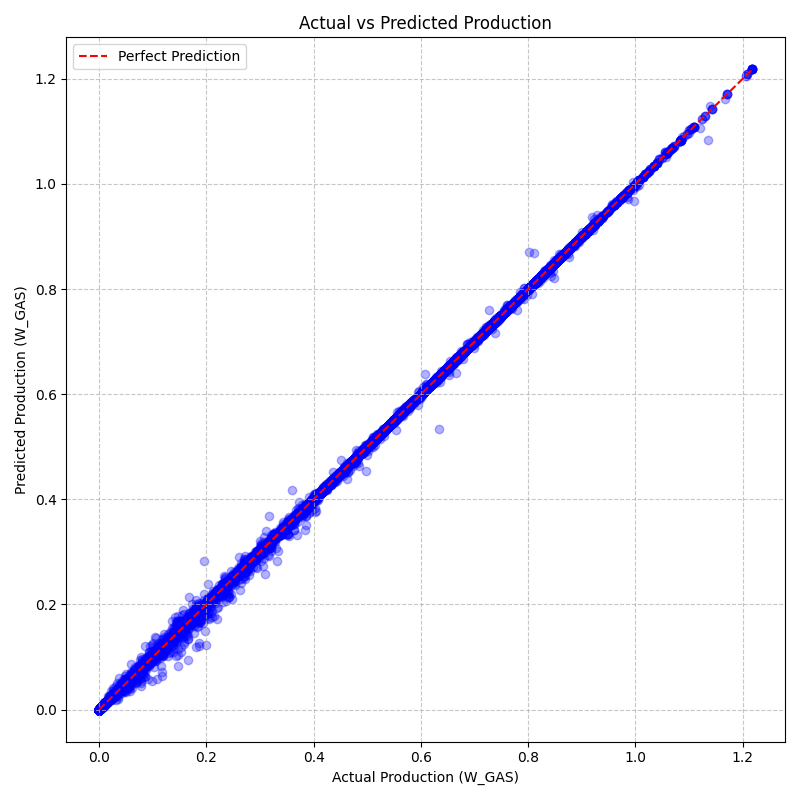
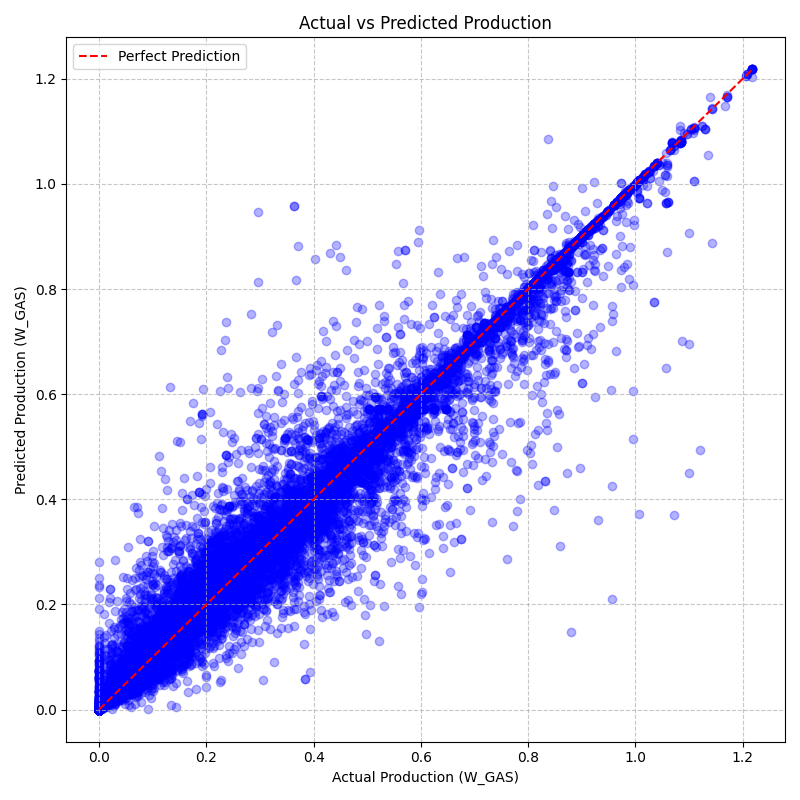
Refactor code structure for improved readability and maintainability

diff --git a/src/utils.py b/src/utils.py
@@ -44,3 +44,47 @@ def load_config(config_path="config/config.yaml"):
     except Exception as e:
         logging.error(f"Error loading config file: {e}")
         raise
+
+def check_feature_leakage(df):
+    # 1. Initialization
+    config = load_config()
+    safe_list = []
+    results = {}
+    
+    target = config['pipeline']['target_col']
+    features = config['pipeline']['feature_cols']
+    
+    print(f"\n{'FEATURE':<15} | {'CORRELATION WITH ' + target:<25} | {'STATUS'}")
+    print("-" * 75)
+    
+    # 2. Logic Loop (In-Memory Processing)
+    for col in features:
+        if col in df.columns:
+            corr = df[col].corr(df[target])
+            results[col] = corr
+            
+            if abs(corr) > 0.95:
+                status = "❌ HIGH LEAKAGE RISK"
+            elif abs(corr) > 0.80:
+                status = "⚠ STRONG DRIVER"
+                #safe_list.append(col) Optional: decide if strong drivers are 'safe'
+            else:
+                status = "✅ OK"
+                safe_list.append(col)
+                
+            print(f"{col:<15} | {corr:>25.4f} | {status}")
+        else:
+            print(f"{col:<15} | {'COLUMN MISSING':>25} | ⚠")
+
+    # 3. Persistence (Single Disk Write - Outside Loop)
+    config['pipeline']['safe_features'] = safe_list
+    
+    try:
+        # Resolve path clearly - assuming 'config/config.yaml' relative to project root
+        with open('config/config.yaml', 'w') as file:
+            yaml.dump(config, file, default_flow_style=False)
+        print(f"\n🚀 Success: config.yaml updated with {len(safe_list)} safe features.")
+    except Exception as e:
+        logging.error(f"Failed to persist safe_features to config: {e}")
+            
+    return results

diff --git a/main.py b/main.py
@@ -9,7 +9,7 @@ evaluation, and visualization of results.
 import logging
 import json
 import os
-from src.utils import load_config
+from src.utils import load_config , check_feature_leakage
 from src.ingestion import load_raw_data
 from src.preprocessing import clean_data
 from src.model import build_model, save_model
@@ -34,6 +34,8 @@ def main():
     # Data ingestion and preprocessing
     raw_df = load_raw_data(config['data']['raw_path'])
     clean_df = clean_data(raw_df)
+
+    check_feature_leakage(clean_df)
     
     # Save processed data
     clean_df.to_csv(config['data']['processed_path'], index=False)
@@ -49,7 +51,7 @@ def main():
     trained_model, y_test, predictions, metrics = train_and_evaluate(
         model=model,
         df=clean_df,
-        features=config['pipeline']['feature_cols'],
+        features=config['pipeline']['safe_features'],
         target=config['pipeline']['target_col'],
         test_size=config['model']['test_size'],
         random_state=config['model']['random_state']

diff --git a/src/train.py b/src/train.py
@@ -69,7 +69,16 @@ def train_and_evaluate(model, df, features, target, test_size, random_state):
     }
     
     logging.info("--- EVALUATION RESULTS ---")
+    # for key, value in metrics.items():
+    #     logging.info(f"{key}: {value}")
+    print(f"\n{'METRIC':<30} | {'VALUE':<25}")
+    print("-" * 60)
     for key, value in metrics.items():
-        logging.info(f"{key}: {value}")
+        # Handle strings vs numbers for alignment
+        if isinstance(value, float):
+            print(f"{key:<30} | {value:>25.4f}")
+        else:
+            print(f"{key:<30} | {str(value):>25}")
+    print("-" * 60 + "\n")
     
     return model, y_test, predictions, metrics

diff --git a/backend/api/migrations/0001_initial.py b/backend/api/migrations/0001_initial.py
@@ -1,0 +1,21 @@
+# Generated by Django 5.0.3 on 2026-04-06 10:13
+
+from django.db import migrations, models
+
+
+class Migration(migrations.Migration):
+
+    initial = True
+
+    dependencies = [
+    ]
+
+    operations = [
+        migrations.CreateModel(
+            name='Category',
+            fields=[
+                ('id', models.AutoField(auto_created=True, primary_key=True, serialize=False, verbose_name='ID')),
+                ('name', models.CharField(max_length=255)),
+            ],
+        ),
+    ]
